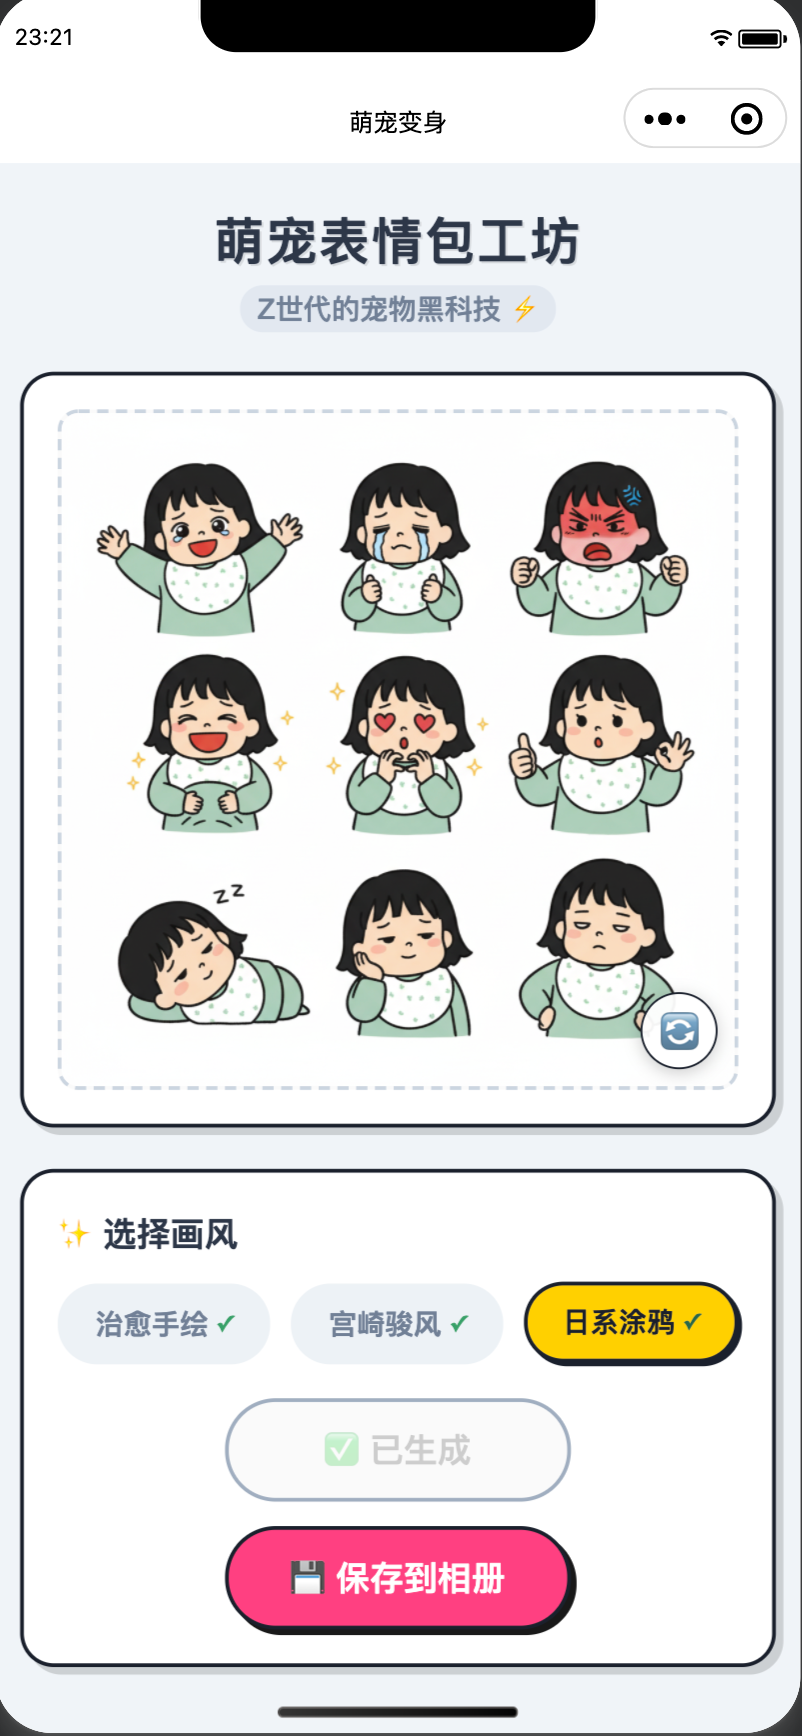
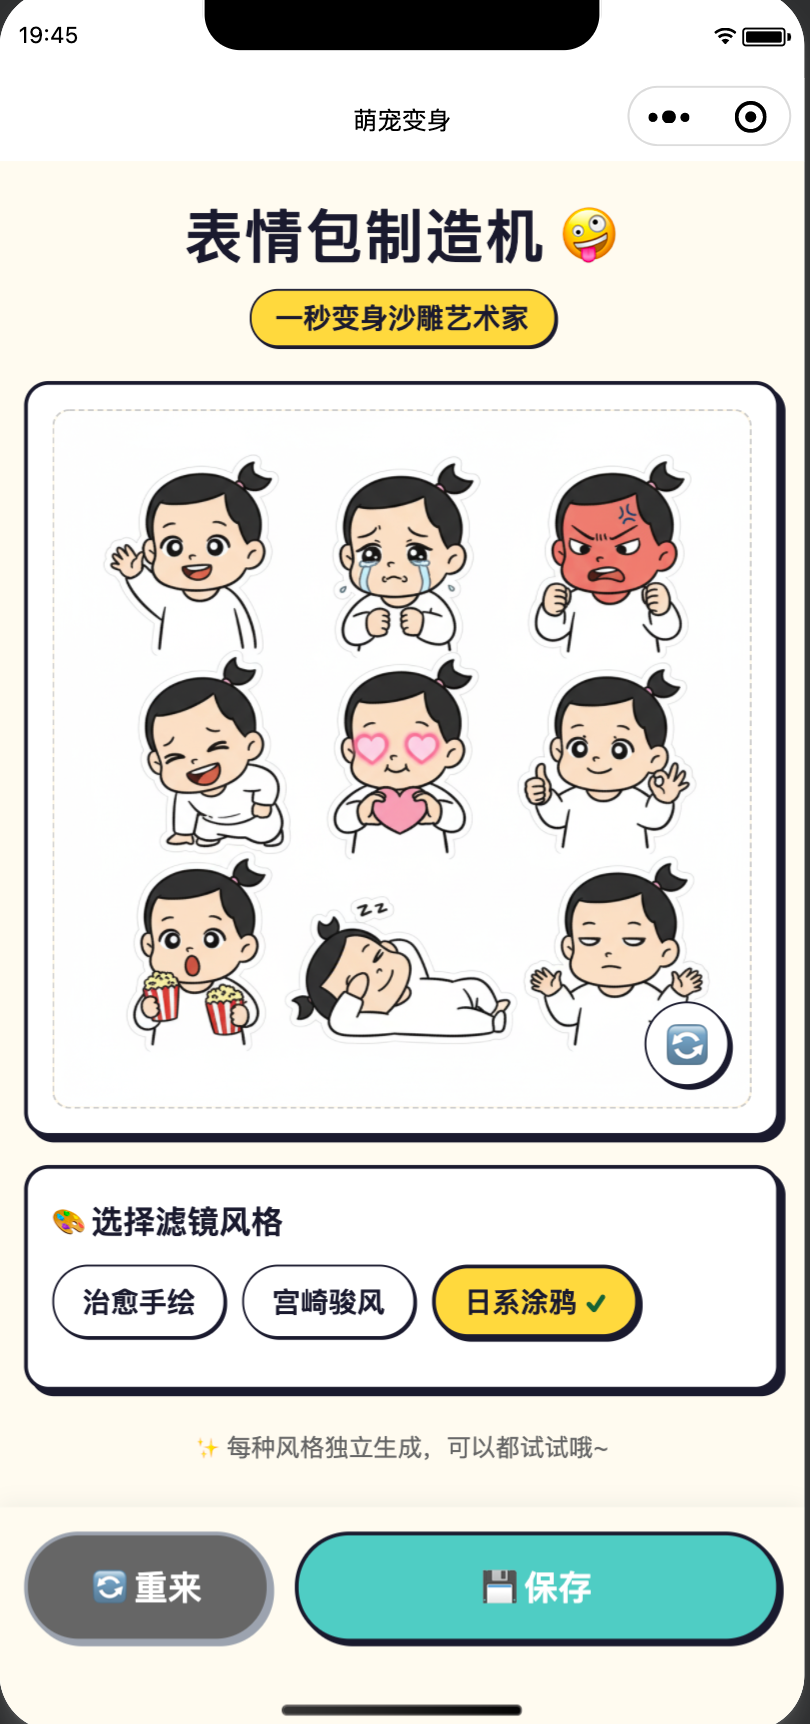
feat: Rework action buttons into a fixed bottom bar with restart functionality and update related assets.

diff --git a/miniprogram/pages/index/index.js b/miniprogram/pages/index/index.js
@@ -263,6 +263,30 @@ Page({
         });
     },
 
+    // Restart: Clear current style result
+    onRestartTap() {
+        const currentStyle = this.data.currentStyle;
+        const newCache = { ...this.data.styleCache };
+        delete newCache[currentStyle]; // Remove from cache
+
+        this.setData({
+            styleCache: newCache,
+            processedImage: '', // Prepare for re-upload if needed? Actually, we might keep the original processed square image.
+            // Wait, the requirement says "Click clear result, back to initial state".
+            // Initial state means showing the original image and the "Start" button.
+            hasGenerated: false // This will show the "Start" button
+        }, () => {
+            if (this.data.processedImage) {
+                // If we have the source image processed, we just need to re-enable the button
+                // But wait, `processedImage` is the input to the API (the square crop).
+                // It should be preserved if we want to regenerate without re-uploading.
+                // The `hasGenerated` flag controls the button state.
+                // updateDisplayImage will see no cache and show originalImage.
+            }
+            this.updateDisplayImage();
+        });
+    },
+
     // Save current displayed image to album
     saveImage() {
         const currentStyle = this.data.currentStyle;
